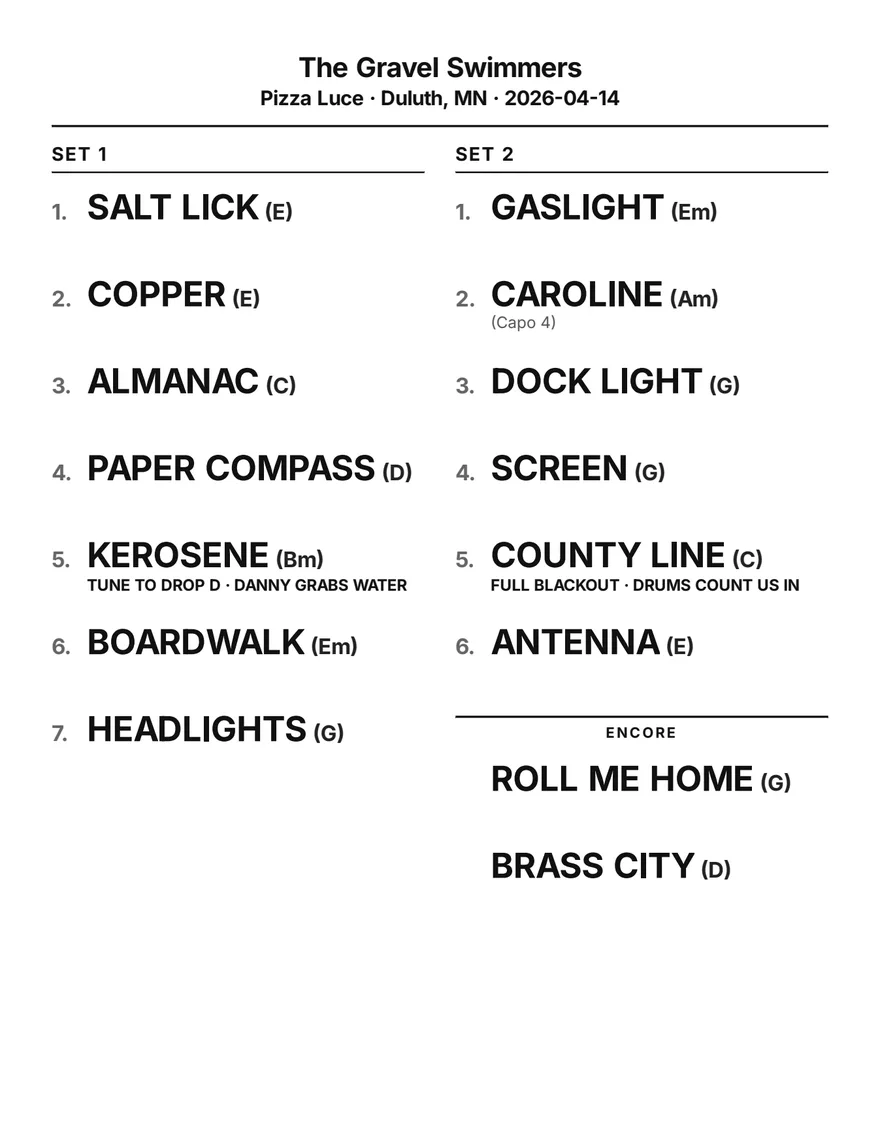
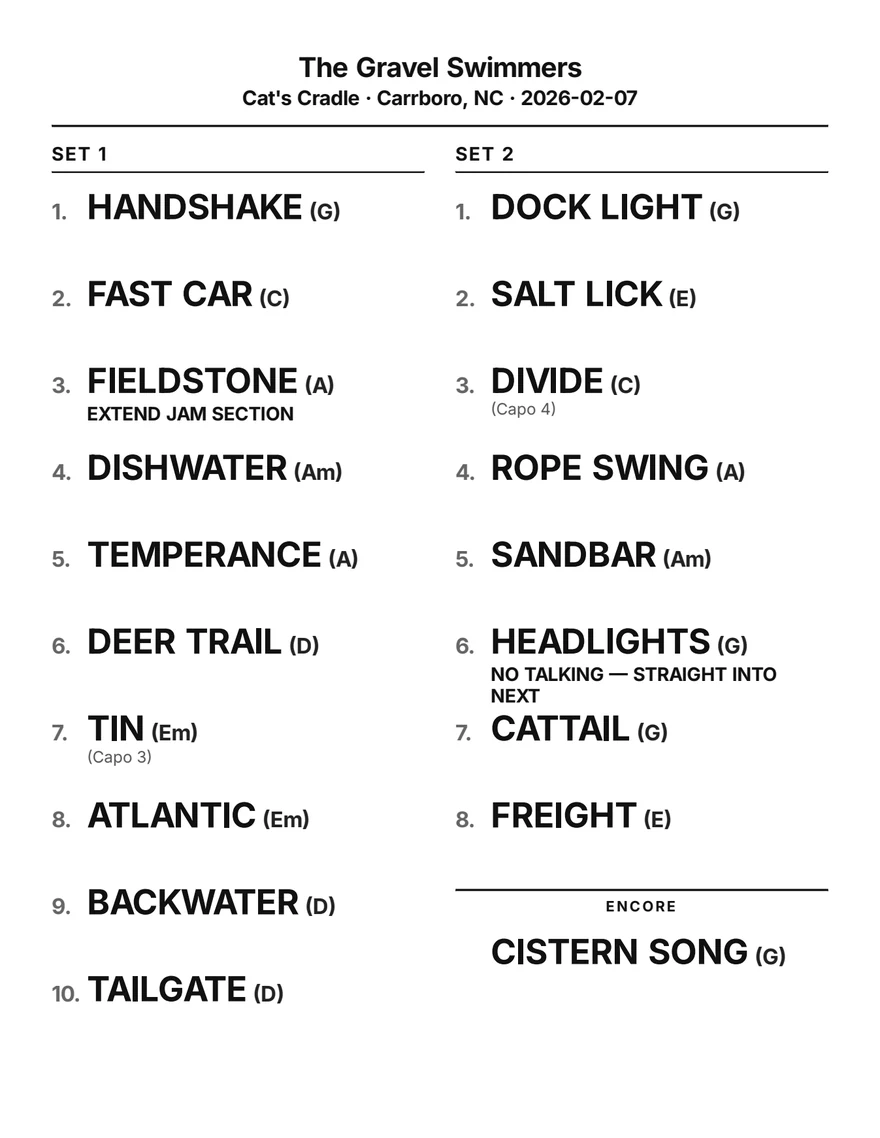
Regenerate the print shot from a real 1.6 export
The shipped image was rendered pre-1.6, when between-song notes were
11pt italic all-caps. They are now 13pt roman sentence case and wrap
instead of truncating, which is the point of that section of the page,
so the picture needed to show it. Generated from a real setlist in the
demo band through the packaged 1.6 app, rasterized and resized to the
same 880px slot.

Chose a setlist whose longest song name is 12 characters after
checking the candidates: the denser 19-song option renders
'CHIMNEY SMOKE' as 'CHIMNEY SMOKI', which is a real bug worth fixing
but not something to ship in a marketing image (reported separately).

diff --git a/public/index.html b/public/index.html
@@ -478,7 +478,7 @@
             </div>
             <div class="feature-visual">
                 <div class="print-shot">
-                    <img src="media/print-fullshow.webp" width="880" height="1139" loading="lazy" decoding="async" alt="An exported Setcraft setlist: The Gravel Swimmers at Pizza Luce, two sets side by side in bold capitals with keys, between-song notes, and an encore">
+                    <img src="media/print-fullshow.webp" width="880" height="1138" loading="lazy" decoding="async" alt="An exported Setcraft setlist: The Gravel Swimmers at Cat's Cradle, two sets side by side in bold capitals with keys, capo lines, between-song notes, and an encore">
                 </div>
             </div>
         </div>
